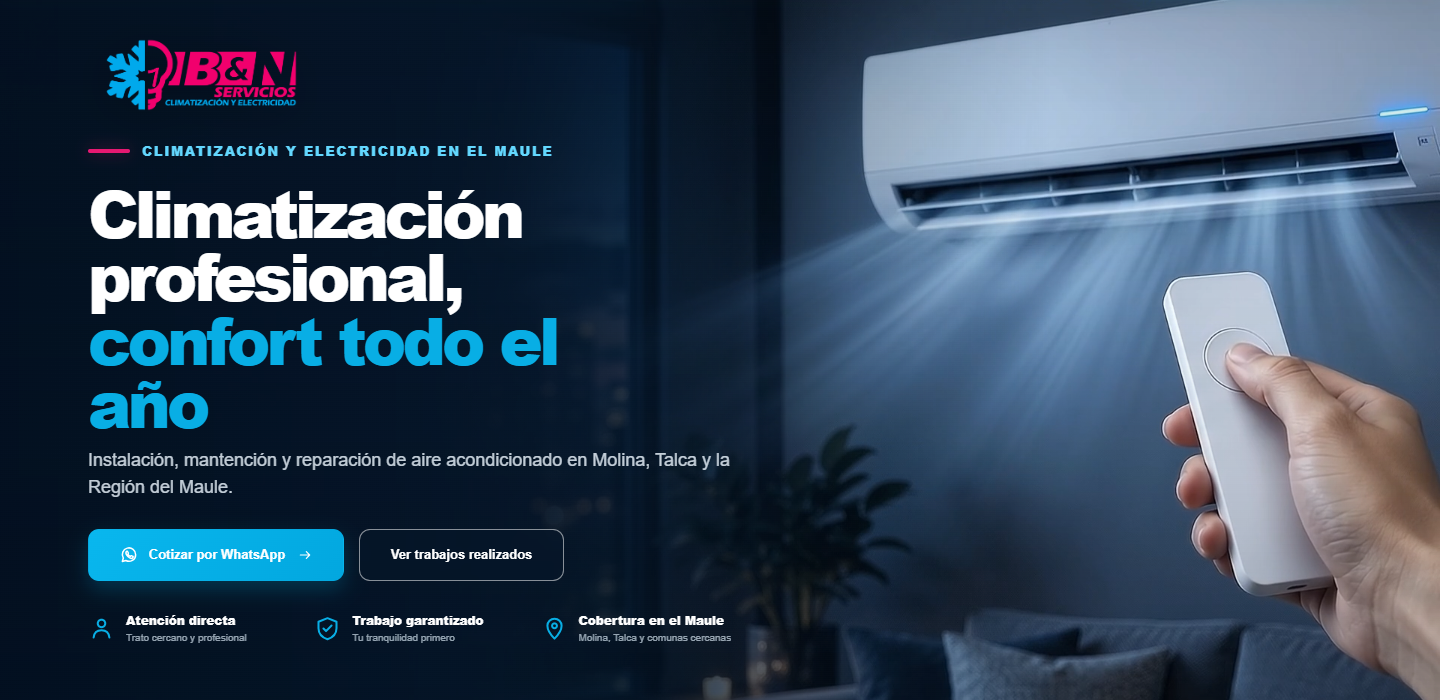
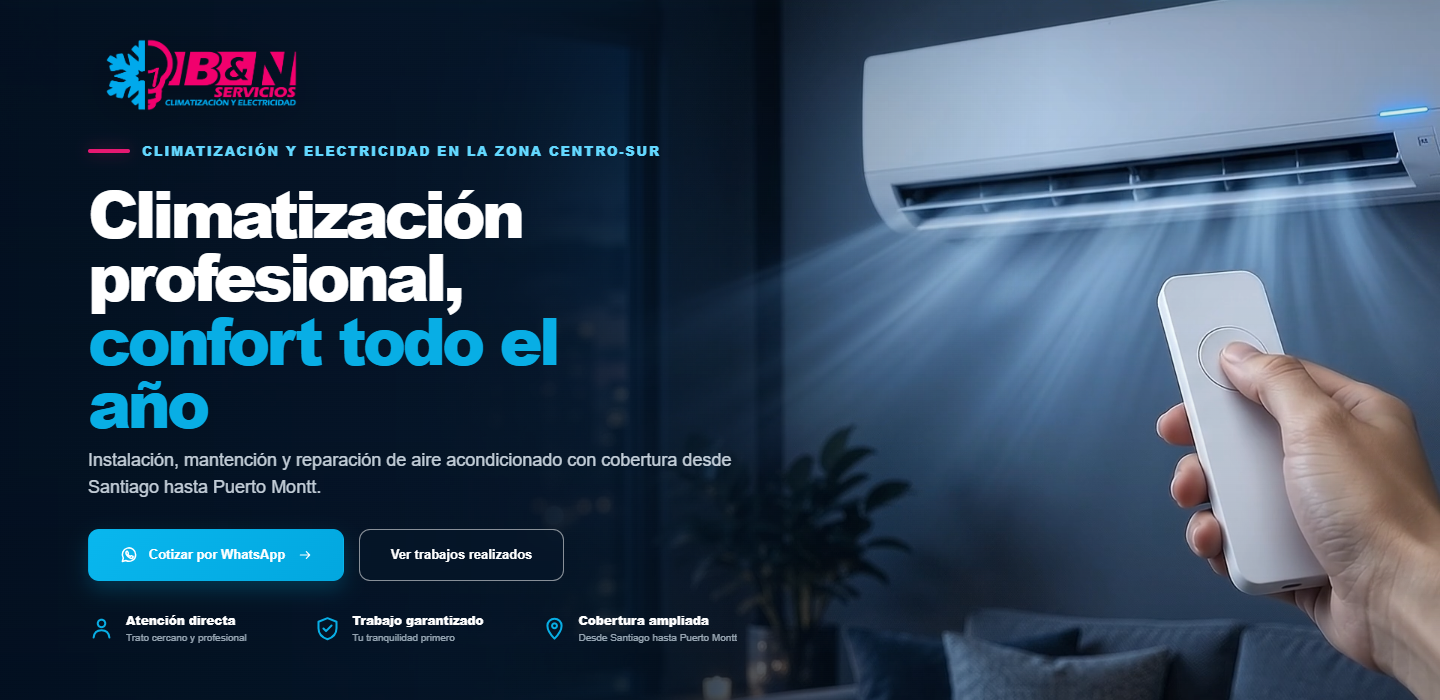
feat: expand service coverage area from Santiago to Puerto Montt and update QA assets

diff --git a/dist/index.html b/dist/index.html
@@ -3,8 +3,8 @@
 <head>
   <meta charset="utf-8">
   <meta name="viewport" content="width=device-width, initial-scale=1">
-  <title>Climatización en Molina y el Maule | BYN Servicios</title>
-  <meta name="description" content="Instalación, mantención, reparación y reubicación de aire acondicionado en Molina, Talca y la Región del Maule.">
+  <title>Climatización de Santiago a Puerto Montt | BYN Servicios</title>
+  <meta name="description" content="Instalación, mantención, reparación y proyectos de climatización con cobertura desde Santiago hasta Puerto Montt.">
   <meta name="theme-color" content="#071b2d">
   <link rel="preconnect" href="https://fonts.googleapis.com">
   <link rel="preconnect" href="https://fonts.gstatic.com" crossorigin>
@@ -45,7 +45,7 @@
       <div class="header-contact">
         <a class="phone" href="tel:+56932630625">
           <svg aria-hidden="true"><use href="#i-phone"></use></svg>
-          <span><strong>+56 9 3263 0625</strong><small>Atención en el Maule</small></span>
+          <span><strong>+56 9 3263 0625</strong><small>Santiago a Puerto Montt</small></span>
         </a>
         <a class="btn btn-primary header-button" href="https://wa.me/56932630625?text=Hola%20BYN%20Servicios.%20Quisiera%20cotizar%20un%20servicio%20de%20climatizaci%C3%B3n." target="_blank" rel="noopener">
           <svg aria-hidden="true"><use href="#i-whatsapp"></use></svg>
@@ -72,9 +72,9 @@
       <div class="shell hero-grid">
         <div class="hero-copy">
           <img class="hero-logo" src="assets/logo-premium.png" alt="BYN Servicios, climatización y electricidad">
-          <p class="overline"><span></span>Climatización y electricidad en el Maule</p>
+          <p class="overline"><span></span>Climatización y electricidad en la zona centro-sur</p>
           <h1>Climatización<br>profesional,<br><em>confort todo el<br>año</em></h1>
-          <p class="hero-lead">Instalación, mantención y reparación de aire acondicionado en Molina, Talca y la Región del Maule.</p>
+          <p class="hero-lead">Instalación, mantención y reparación de aire acondicionado con cobertura desde Santiago hasta Puerto Montt.</p>
           <div class="hero-actions">
             <a class="btn btn-primary btn-large" href="https://wa.me/56932630625?text=Hola%20BYN%20Servicios.%20Quisiera%20cotizar%20un%20servicio%20de%20climatizaci%C3%B3n." target="_blank" rel="noopener">
               <svg aria-hidden="true"><use href="#i-whatsapp"></use></svg>Cotizar por WhatsApp
@@ -85,7 +85,7 @@
           <ul class="trust-row" aria-label="Razones para confiar en BYN Servicios">
             <li><svg aria-hidden="true"><use href="#i-user"></use></svg><span><strong>Atención directa</strong><small>Trato cercano y profesional</small></span></li>
             <li><svg aria-hidden="true"><use href="#i-shield"></use></svg><span><strong>Trabajo garantizado</strong><small>Tu tranquilidad primero</small></span></li>
-            <li><svg aria-hidden="true"><use href="#i-pin"></use></svg><span><strong>Cobertura en el Maule</strong><small>Molina, Talca y comunas cercanas</small></span></li>
+            <li><svg aria-hidden="true"><use href="#i-pin"></use></svg><span><strong>Cobertura ampliada</strong><small>Desde Santiago hasta Puerto Montt</small></span></li>
           </ul>
         </div>
       </div>
@@ -292,15 +292,15 @@
         </div>
 
         <article class="coverage-card" id="cobertura">
-          <img src="assets/cobertura-maule.jpg" alt="Vista panorámica de la zona central de Chile" loading="lazy">
+          <img src="assets/cobertura-maule.jpg" alt="Vista panorámica representativa de la zona centro-sur de Chile" loading="lazy">
           <div class="coverage-shade"></div>
           <div class="coverage-content">
             <p class="overline overline-light"><span></span>Nuestra cobertura</p>
-            <h2>Molina, Talca y otras localidades del Maule</h2>
-            <p>Atención en hogares, comercios e instituciones. Consulta disponibilidad para tu comuna.</p>
-            <a class="btn btn-primary" href="https://wa.me/56932630625?text=Hola%20BYN%20Servicios.%20Quisiera%20consultar%20cobertura%20para%20mi%20sector." target="_blank" rel="noopener"><svg><use href="#i-whatsapp"></use></svg>Consultar cobertura<svg class="arrow"><use href="#i-arrow"></use></svg></a>
+            <h2>Desde Santiago hasta Puerto Montt</h2>
+            <p>Atención en hogares, comercios, instituciones y proyectos. Consulta disponibilidad y condiciones para tu comuna.</p>
+            <a class="btn btn-primary" href="https://wa.me/56932630625?text=Hola%20BYN%20Servicios.%20Quisiera%20consultar%20cobertura%20desde%20Santiago%20hasta%20Puerto%20Montt%20para%20mi%20sector." target="_blank" rel="noopener"><svg><use href="#i-whatsapp"></use></svg>Consultar cobertura<svg class="arrow"><use href="#i-arrow"></use></svg></a>
           </div>
-          <div class="coverage-pin"><span><svg><use href="#i-pin"></use></svg></span><strong>Región del Maule<small>Servicio local y cercano</small></strong></div>
+          <div class="coverage-pin"><span><svg><use href="#i-pin"></use></svg></span><strong>Santiago — Puerto Montt<small>Cobertura centro-sur</small></strong></div>
         </article>
       </div>
     </section>
@@ -394,7 +394,7 @@
           <div class="compact-heading"><h2>Preguntas frecuentes</h2><span></span><p>Resolvemos tus dudas.</p></div>
           <div class="faq-list">
             <details open><summary>¿Qué información necesito para cotizar?</summary><p>Indica el servicio, la comuna y adjunta fotografías del equipo o del lugar de instalación.</p></details>
-            <details><summary>¿En qué comunas atienden?</summary><p>Atendemos Molina, Talca y distintas localidades de la Región del Maule, sujeto a disponibilidad.</p></details>
+            <details><summary>¿En qué comunas atienden?</summary><p>Coordinamos servicios desde Santiago hasta Puerto Montt. La disponibilidad depende de la comuna, el tipo de trabajo y la planificación del proyecto.</p></details>
             <details><summary>¿Realizan mantenciones y reparaciones?</summary><p>Sí, evaluamos el estado del equipo para recomendar la solución adecuada.</p></details>
             <details><summary>¿Con qué marcas y tipos de equipos trabajan?</summary><p>Trabajamos con equipos TCL, CLARK, Midea, Hisense, Daikin, Samsung, Fujitsu, Daitsu y Khöne, entre otras alternativas. También evaluamos split muro, cassette, ductos, cielo piso, portátiles y accesorios según cada proyecto.</p></details>
           </div>
@@ -408,7 +408,7 @@
   </main>
 
   <footer class="site-footer">
-    <div class="wide-shell footer-inner"><img src="assets/logo-premium.png" alt="BYN Servicios — Climatización y electricidad"><p>Climatización y electricidad · Molina, Región del Maule</p><div><a href="tel:+56932630625">+56 9 3263 0625</a><a href="https://www.instagram.com/byn_servicios/" target="_blank" rel="noopener">Instagram</a><a href="https://www.facebook.com/people/BN-aire-acondicionado-y-electricidad/100028941828914/" target="_blank" rel="noopener">Facebook</a></div></div>
+    <div class="wide-shell footer-inner"><img src="assets/logo-premium.png" alt="BYN Servicios — Climatización y electricidad"><p>Climatización y electricidad · Cobertura desde Santiago hasta Puerto Montt</p><div><a href="tel:+56932630625">+56 9 3263 0625</a><a href="https://www.instagram.com/byn_servicios/" target="_blank" rel="noopener">Instagram</a><a href="https://www.facebook.com/people/BN-aire-acondicionado-y-electricidad/100028941828914/" target="_blank" rel="noopener">Facebook</a></div></div>
   </footer>
   <a class="floating-whatsapp" href="https://wa.me/56932630625?text=Hola%20BYN%20Servicios.%20Quisiera%20realizar%20una%20consulta." target="_blank" rel="noopener" aria-label="Consultar a BYN Servicios por WhatsApp"><svg aria-hidden="true"><use href="#i-whatsapp"></use></svg><span>Consultar</span></a>
 </body>
